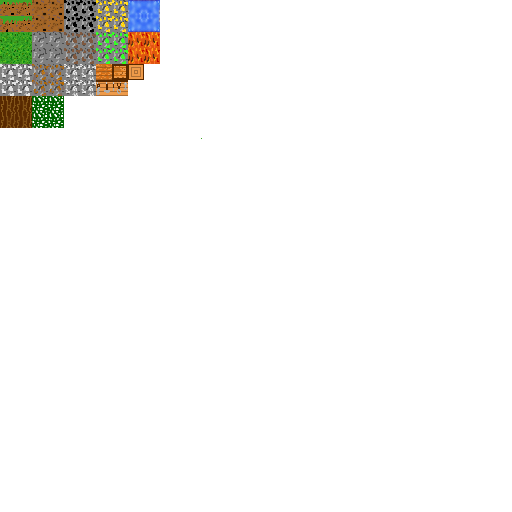
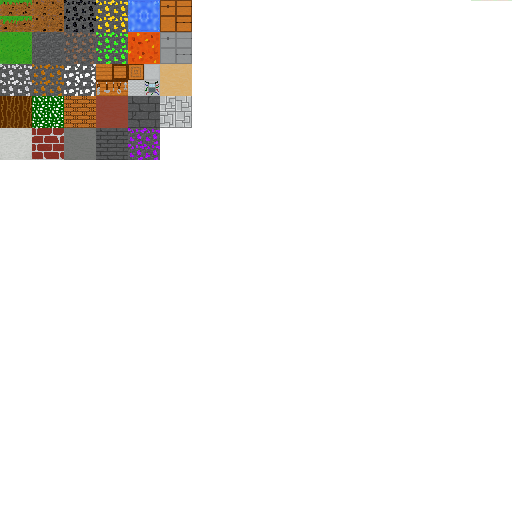
Modif de textures

Changed region(s): [[0.0, 0.0, 0.375, 0.3125]]

diff --git a/src/modeles/TextureManager.java b/src/modeles/TextureManager.java
@@ -13,7 +13,7 @@ public class TextureManager {
 
 	public TextureManager() {
 		try {
-			texture = TextureLoader.getTexture("PNG", ResourceLoader.getResourceAsStream("res/text.png_version/text.joa.png"));
+			texture = TextureLoader.getTexture("PNG", ResourceLoader.getResourceAsStream("res//text.png"));
 		} catch (IOException e) {
 			e.printStackTrace();
 		}

diff --git a/src/modeles/TerrainGenerator.java b/src/modeles/TerrainGenerator.java
@@ -71,7 +71,7 @@ public class TerrainGenerator {
 
 		for(int i = originY+1; i>originY-16; --i){
 			for(int j = originZ; j>originZ-16; --j){
-				temp.addCube3dVbo(new Cube3dVbo(originX, -i, j, 1, 31));
+				temp.addCube3dVbo(new Cube3dVbo(originX, -i, j, 1, 17));
 			}
 		}
 	}
